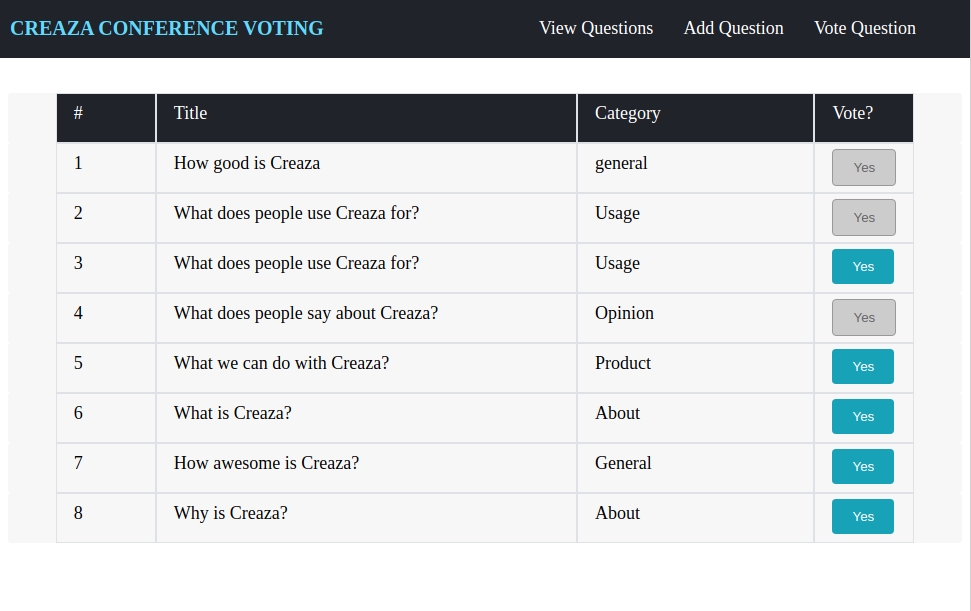
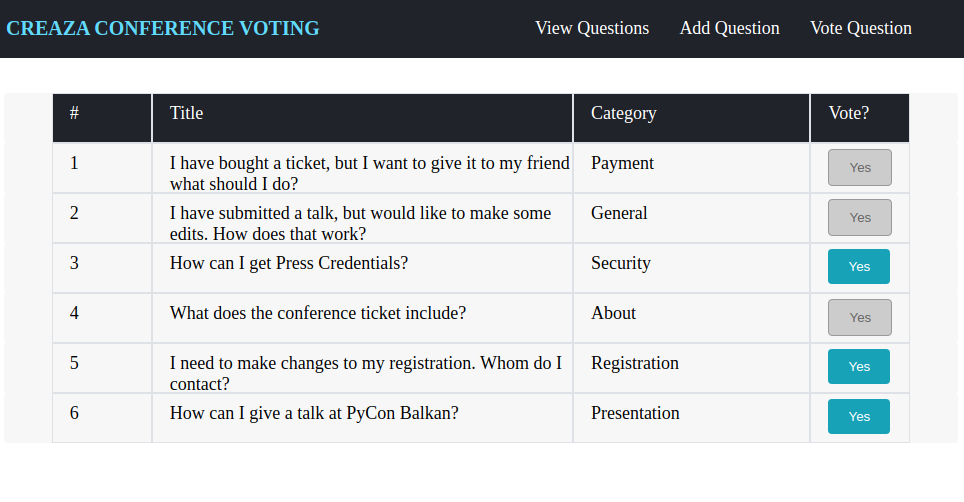
Integration Test cases for APIs

Changed region(s): [[0.0311, 0.1494, 0.9647, 0.8964], [0.0, 0.0, 1.0, 1.0]]

diff --git a/frontend/src/components/questions/List.js b/frontend/src/components/questions/List.js
@@ -8,7 +8,7 @@ import "./Style.css";
 let EachQuestion=(request)=>{
   return request.data.map((question, i)=>{
       return(<div className="flex flex3">
-        <div className="child flex3-child">{question.id}</div>
+        <div className="child flex3-child">{i+1}</div>
         <div className="child flex3-child flex-child-large">{question.title}</div>
         <div className="child flex3-child flex-child-medium">{question.category}</div>
         <div className="child flex3-child">{question.votes}</div>

diff --git a/backend/src/test/java/com/creaza/conferencevoting/controllers/QuestionsControllerTest.java b/backend/src/test/java/com/creaza/conferencevoting/controllers/QuestionsControllerTest.java
@@ -1,0 +1,90 @@
+package com.creaza.conferencevoting.controllers;
+
+import org.json.JSONException;
+import org.junit.Test;
+import org.junit.jupiter.api.TestInstance;
+import org.junit.jupiter.api.extension.ExtendWith;
+import org.junit.runner.RunWith;
+import org.springframework.boot.test.context.SpringBootTest;
+import org.springframework.boot.web.server.LocalServerPort;
+import org.springframework.boot.test.web.client.TestRestTemplate;
+import org.springframework.http.HttpEntity;
+import org.springframework.http.HttpHeaders;
+import org.springframework.http.HttpMethod;
+import org.springframework.http.ResponseEntity;
+import org.springframework.test.context.junit.jupiter.SpringExtension;
+import org.springframework.test.context.junit4.SpringRunner;
+
+
+import static org.junit.Assert.assertTrue;
+import static org.junit.Assert.assertNotNull;
+import static org.junit.Assert.assertEquals;
+
+import com.creaza.conferencevoting.ConferenceVotingApplication;
+import com.creaza.conferencevoting.model.Question;
+
+@RunWith (SpringRunner.class)
+@ExtendWith(SpringExtension.class)
+@SpringBootTest (classes = ConferenceVotingApplication.class,webEnvironment = SpringBootTest.WebEnvironment.RANDOM_PORT)
+@TestInstance(TestInstance.Lifecycle.PER_CLASS)
+public class QuestionsControllerTest {
+    TestRestTemplate restTemplate = new TestRestTemplate();
+
+    HttpHeaders headers = new HttpHeaders();
+    @LocalServerPort
+    private int port;
+
+    @Test
+    public void addQuestion() {
+
+        Question question = new Question("What does the conference ticket include?", "About");
+
+        HttpEntity<Question> entity = new HttpEntity<Question>(question, headers);
+
+        ResponseEntity<String> response = restTemplate.exchange(
+                createURLWithPort("/api/v1/questions"),
+                HttpMethod.POST, entity, String.class);
+
+        assertEquals(response.getStatusCodeValue(),200);
+        assertTrue(response.getBody().contains("id"));
+        assertTrue(response.getBody().contains("title"));
+        assertTrue(response.getBody().contains("category"));
+
+    }
+    @Test
+    public void getQuestions() throws JSONException {
+
+        HttpEntity<String> entity = new HttpEntity<String>(null, headers);
+
+        ResponseEntity<String> response = restTemplate.exchange(
+                createURLWithPort("api/v1/questions"),
+                HttpMethod.GET, entity, String.class);
+
+        assertEquals(response.getStatusCodeValue(),200);
+        assertNotNull( response.getBody());
+        assertTrue(response.getBody().contains("id"));
+        assertTrue(response.getBody().contains("title"));
+        assertTrue(response.getBody().contains("category"));
+    }
+
+    @Test
+    public void voteQuestion(){
+        Question question = new Question("Course1", "Spring");
+        HttpEntity<String> entity = new HttpEntity<String>(null, headers);
+
+        ResponseEntity<String> response = restTemplate.exchange(
+                createURLWithPort("api/v1/questions/16/vote"),
+                HttpMethod.PUT, entity, String.class);
+
+        assertEquals(response.getStatusCodeValue(),200);
+        assertNotNull( response.getBody());
+        assertTrue(response.getBody().contains("id"));
+        assertTrue(response.getBody().contains("title"));
+        assertTrue(response.getBody().contains("category"));
+
+    }
+    private String createURLWithPort(String uri) {
+        return "http://localhost:"+port+ uri;
+    }
+
+}

diff --git a/backend/src/main/java/com/creaza/conferencevoting/model/Question.java b/backend/src/main/java/com/creaza/conferencevoting/model/Question.java
@@ -44,6 +44,14 @@ public class Question {
     @Version
     private long version;
 
+    public Question() {
+
+    }
+    public Question(String title, String category) {
+        super();
+        this.title = title;
+        this.category = category;
+    }
     public Long getId(){
         return id;
     }
@@ -87,12 +95,3 @@ public class Question {
     }
 }
 
-//CREATE TABLE questions (
-//  id int PRIMARY KEY AUTO_INCREMENT,
-//  title varchar(255) NOT NULL,
-//  category varchar(255) NOT NULL,
-//  votes int  NOT NULL DEFAULT 0,
-//  created_at timestamp DEFAULT CURRENT_TIMESTAMP,
-//  updated_at timestamp DEFAULT CURRENT_TIMESTAMP,
-//  version bigint NOT NULL DEFAULT 0
-//);
